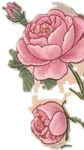
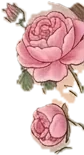
feat: hero v2 — bigger lighthouse; all moving layers re-cut, couple scaled to the new door

diff --git a/styles.css b/styles.css
@@ -165,7 +165,7 @@ body {
   width: max(100cqw, 100cqh * 768 / 1376);
   aspect-ratio: 768 / 1376;
   transform: translateX(-50%);
-  background: url("assets/hero/plate.webp?v=3") center / 100% 100% no-repeat;
+  background: url("assets/hero/plate.webp?v=4") center / 100% 100% no-repeat;
   container-type: inline-size;
 }
 .hl {
@@ -175,23 +175,23 @@ body {
   animation: sway var(--dur, 7s) ease-in-out var(--delay, 0s) infinite alternate;
 }
 /* left/top/width = x/768, y/1376, w/768 of each cut-out; origin = where it stands or grows from */
-.hl-flamingo1 { left: 1.172%;  top: 61.991%; width: 21.875%; transform-origin: 43% 100%; --a: -.7deg; --b: .6deg;  --dur: 7.5s; }
-.hl-flamingo2 { left: 13.802%; top: 68.605%; width: 20.182%; transform-origin: 43% 99%;  --a: .6deg;  --b: -.8deg; --dur: 8.5s; --delay: -3s; }
-.hl-pelican   { left: 23.177%; top: 76.017%; width: 17.057%; transform-origin: 41% 100%; animation-name: breathe; --dur: 4.2s; --delay: -1s; }
-.hl-rose-l    { left: 0;       top: 73.474%; width: 16.667%; transform-origin: 31% 100%; --a: -1.6deg; --b: 1.4deg; --dur: 6s;   --delay: -2s; }
-.hl-rose-r    { left: 81.901%; top: 74.855%; width: 14.063%; transform-origin: 66% 100%; --a: 1.5deg;  --b: -1.5deg; --dur: 6.8s; --delay: -4s; }
-.hl-rose-tr   { left: 89.063%; top: 58.648%; width: 10.938%; transform-origin: 90% 100%; --a: -1.8deg; --b: 1.2deg; --dur: 5.6s; --delay: -1s; }
+.hl-flamingo1 { left: 1.302%;  top: 61.846%; width: 21.745%; transform-origin: 43% 100%; --a: -.7deg; --b: .6deg;  --dur: 7.5s; }
+.hl-flamingo2 { left: 13.802%; top: 68.605%; width: 20.312%; transform-origin: 43% 99%;  --a: .6deg;  --b: -.8deg; --dur: 8.5s; --delay: -3s; }
+.hl-pelican   { left: 22.917%; top: 76.017%; width: 18.099%; transform-origin: 40% 100%; animation-name: breathe; --dur: 4.2s; --delay: -1s; }
+.hl-rose-l    { left: 0.000%;       top: 73.183%; width: 16.927%; transform-origin: 31% 100%; --a: -1.6deg; --b: 1.4deg; --dur: 6s;   --delay: -2s; }
+.hl-rose-r    { left: 81.901%; top: 74.927%; width: 14.453%; transform-origin: 64% 100%; --a: 1.5deg;  --b: -1.5deg; --dur: 6.8s; --delay: -4s; }
+.hl-rose-tr   { left: 89.062%; top: 58.503%; width: 10.938%; transform-origin: 90% 100%; --a: -1.8deg; --b: 1.2deg; --dur: 5.6s; --delay: -1s; }
 
-/* Mist over Vitosha (54,644 · 672×214): soft wisps drift across, masked to the mountain */
+/* Mist over Vitosha (54,646 · 672×208): soft wisps drift across, masked to the mountain */
 .mist {
   position: absolute;
   left: 7.031%;
-  top: 46.802%;
+  top: 46.948%;
   width: 87.5%;
-  aspect-ratio: 672 / 214;
+  aspect-ratio: 672 / 208;
   overflow: hidden;
-  -webkit-mask: url("assets/hero/mist-mask.webp?v=1") center / 100% 100% no-repeat;
-          mask: url("assets/hero/mist-mask.webp?v=1") center / 100% 100% no-repeat;
+  -webkit-mask: url("assets/hero/mist-mask.webp?v=2") center / 100% 100% no-repeat;
+          mask: url("assets/hero/mist-mask.webp?v=2") center / 100% 100% no-repeat;
   animation: mist-breathe 14s ease-in-out infinite alternate;
 }
 .mist::before {
@@ -212,15 +212,15 @@ body {
 @keyframes mist-drift   { from { transform: translateX(0); } to { transform: translateX(-50%); } }
 @keyframes mist-breathe { from { opacity: .55; } to { opacity: 1; } }
 
-/* Sunlight glint sliding over the golden domes (238,743 · 259×226) */
+/* Sunlight glint sliding over the golden domes (238,746 · 259×223) */
 .dome-glint {
   position: absolute;
   left: 30.990%;
-  top: 53.997%;
+  top: 54.215%;
   width: 33.724%;
-  aspect-ratio: 259 / 226;
-  -webkit-mask: url("assets/hero/dome-mask.webp?v=1") center / 100% 100% no-repeat;
-          mask: url("assets/hero/dome-mask.webp?v=1") center / 100% 100% no-repeat;
+  aspect-ratio: 259 / 223;
+  -webkit-mask: url("assets/hero/dome-mask.webp?v=2") center / 100% 100% no-repeat;
+          mask: url("assets/hero/dome-mask.webp?v=2") center / 100% 100% no-repeat;
   background: linear-gradient(105deg, rgba(255, 246, 205, 0) 44%, rgba(255, 246, 210, .22) 50%, rgba(255, 246, 205, 0) 56%) no-repeat;
   background-size: 300% 100%;
   mix-blend-mode: screen;
@@ -405,10 +405,10 @@ body {
   to   { transform: scaleX(1.03) skewY(.8deg); }
 }
 
-/* The couple: feet follow the pier deck from the right edge (775,984) to the lighthouse door (574,958) */
+/* The couple: feet follow the pier deck from the right edge (775,1000) to the lighthouse door (586,947) */
 .couple {
   position: absolute;
-  width: 2.3cqw;              /* a touch larger than true scale so they read on a phone */
+  width: 3.4cqw;              /* sized to the v2 lighthouse door (22×37) */
   aspect-ratio: 20 / 24;
   translate: -50% -100%;              /* anchor at the feet */
   overflow: visible;
@@ -430,12 +430,12 @@ body {
 .couple .c-dress { transform-box: fill-box; transform-origin: 50% 0; animation: swish 1.1s ease-in-out infinite alternate; }
 
 @keyframes stroll {
-  0%   { left: 100.91%; top: 71.51%; opacity: 0; scale: 1.1; }
+  0%   { left: 100.91%; top: 72.67%; opacity: 0; scale: 1.1; }   /* off the right edge (775,1000) */
   4%   { opacity: 1; }
-  66%  { left: 77.08%;  top: 70.0%;  scale: .9; }      /* end of the pier (592,963) */
-  74%  { left: 74.74%;  top: 69.62%; scale: .8; opacity: 1; }   /* at the door */
-  77%  { left: 74.74%;  top: 69.62%; scale: .76; opacity: 0; }
-  100% { left: 74.74%;  top: 69.62%; opacity: 0; }
+  64%  { left: 79.43%;  top: 70.35%; scale: .92; }     /* end of the pier, foot of the steps (610,968) */
+  73%  { left: 76.30%;  top: 68.82%; scale: .85; opacity: 1; }   /* at the door (586,947) */
+  77%  { left: 76.30%;  top: 68.82%; scale: .8; opacity: 0; }
+  100% { left: 76.30%;  top: 68.82%; opacity: 0; }
 }
 @keyframes step   { from { rotate: -14deg; } to { rotate: 14deg; } }
 @keyframes bounce { from { translate: 0 0; } to { translate: 0 -.5px; } }
@@ -444,13 +444,13 @@ body {
 /* the doorway lights up once they are inside, then slowly dims before the next stroll */
 .lh-door {
   position: absolute;
-  left: 74.3%;
-  top: 68.75%;
-  width: .9cqw;
-  height: 1.6cqw;
-  border-radius: .45cqw .45cqw 0 0;
+  left: 74.870%;             /* door 575,910 · 22×37 */
+  top: 66.134%;
+  width: 2.86cqw;
+  height: 4.8cqw;
+  border-radius: 1.43cqw 1.43cqw 0 0;
   background: radial-gradient(ellipse at 50% 70%, rgba(255, 228, 160, .95), rgba(255, 196, 110, .35) 60%, rgba(255, 190, 110, 0));
-  box-shadow: 0 0 1.2cqw .3cqw rgba(255, 210, 140, .55);
+  box-shadow: 0 0 2.4cqw .6cqw rgba(255, 210, 140, .55);
   opacity: 0;
   animation: doorlight 32s ease-in-out infinite;
 }
@@ -461,9 +461,9 @@ body {
   100%      { opacity: 0; }
 }
 
-/* Pines (0,657 · 170×174) and (608,658 · 160×168): rock from where the trunk leaves the frame, in uneven gusts */
-.hl-tree-l { left: 0;       top: 47.747%; width: 22.135%; transform-origin: 0 99%;    animation: breeze-l 10s ease-in-out infinite; }
-.hl-tree-r { left: 79.167%; top: 47.820%; width: 20.833%; transform-origin: 100% 99%; animation: breeze-r 11.5s ease-in-out -4s infinite; }
+/* Pines (0,659 · 169×172) and (613,657 · 155×169): rock from where the trunk leaves the frame, in uneven gusts */
+.hl-tree-l { left: 0.000%;       top: 47.892%; width: 22.005%; transform-origin: 0 99%;    animation: breeze-l 10s ease-in-out infinite; }
+.hl-tree-r { left: 79.818%; top: 47.747%; width: 20.182%; transform-origin: 100% 99%; animation: breeze-r 11.5s ease-in-out -4s infinite; }
 @keyframes breeze-l {
   0%, 100% { rotate: 0deg; }
   18% { rotate: .9deg; }
@@ -490,17 +490,17 @@ body {
 /* Lighthouse: a warm lamp that pulses, and a beam that sweeps round (right, towards us, left, away) */
 .lighthouse {
   position: absolute;
-  left: 73.698%;            /* lantern centre, 566 × 847 */
-  top: 61.555%;
+  left: 73.828%;            /* lantern centre, 567 × 686 */
+  top: 49.855%;
   width: 0;
   height: 0;
 }
 .lh-glow {
   position: absolute;
-  left: -4cqw;
-  top: -4cqw;
-  width: 8cqw;
-  height: 8cqw;
+  left: -7cqw;
+  top: -7cqw;
+  width: 14cqw;
+  height: 14cqw;
   border-radius: 50%;
   background: radial-gradient(circle, rgba(255, 246, 214, .95) 0 12%, rgba(255, 214, 140, .55) 28%, rgba(255, 190, 110, 0) 70%);
   mix-blend-mode: screen;
@@ -509,9 +509,9 @@ body {
 .lh-beam {
   position: absolute;
   left: 0;
-  top: -3.2cqw;
-  width: 46cqw;
-  height: 6.4cqw;
+  top: -5.5cqw;
+  width: 62cqw;
+  height: 11cqw;
   filter: blur(3px);          /* on the parent, so it softens the clipped cone's edges */
   transform-origin: 0 50%;
   opacity: 0;

diff --git a/index.html b/index.html
@@ -18,11 +18,11 @@
   <link rel="preconnect" href="https://fonts.googleapis.com">
   <link rel="preconnect" href="https://fonts.gstatic.com" crossorigin>
   <link href="https://fonts.googleapis.com/css2?family=Ballet:opsz@16..72&family=Cormorant+Garamond:ital,wght@0,300;0,400;0,500;1,400;1,500;1,600&display=swap" rel="stylesheet">
-  <link rel="stylesheet" href="styles.css?v=202610182232">
+  <link rel="stylesheet" href="styles.css?v=202610182246">
   <link rel="preload" as="image" href="assets/paper.webp?v=3">
   <link rel="preload" as="image" href="assets/seal.webp?v=2">
   <link rel="preload" as="image" href="assets/seal-lines.webp?v=2">
-  <link rel="preload" as="image" href="assets/hero/plate.webp?v=3">
+  <link rel="preload" as="image" href="assets/hero/plate.webp?v=4">
   <link rel="preconnect" href="https://www.google.com">
 </head>
 <body>
@@ -74,7 +74,7 @@
                 <path class="bell-body" d="M3.3 2.3 Q3.4 .9 5 .9 Q6.6 .9 6.7 2.3 L7.2 6.4 Q7.5 7.4 8.7 8 L1.3 8 Q2.5 7.4 2.8 6.4 Z"/>
                 <path class="bell-loop" d="M4.3 1 Q5 -.2 5.7 1"/>
               </svg>
-              <img class="belfry-front" src="assets/hero/belfry-front.webp?v=1" alt="">
+              <img class="belfry-front" src="assets/hero/belfry-front.webp?v=9" alt="">
             </span>
             <canvas class="sea" id="sea" width="768" height="262"></canvas>
             <span class="dolphin-pool">
@@ -84,18 +84,18 @@
               <i class="splash splash-out"></i><i class="splash splash-in"></i>
             </span>
             <div class="boat">
-              <img class="sail sail-l" src="assets/hero/sail-l.webp?v=1" alt="">
-              <img class="sail sail-r" src="assets/hero/sail-r.webp?v=1" alt="">
-              <img class="boat-hull" src="assets/hero/boat-hull.webp?v=1" alt="">
+              <img class="sail sail-l" src="assets/hero/sail-l.webp?v=9" alt="">
+              <img class="sail sail-r" src="assets/hero/sail-r.webp?v=9" alt="">
+              <img class="boat-hull" src="assets/hero/boat-hull.webp?v=9" alt="">
             </div>
-            <img class="hl hl-tree-l" src="assets/hero/tree-l.webp?v=1" alt="">
-            <img class="hl hl-tree-r" src="assets/hero/tree-r.webp?v=1" alt="">
-            <img class="hl hl-flamingo1" src="assets/hero/flamingo1.webp?v=1" alt="">
-            <img class="hl hl-flamingo2" src="assets/hero/flamingo2.webp?v=1" alt="">
-            <img class="hl hl-pelican" src="assets/hero/pelican.webp?v=1" alt="">
-            <img class="hl hl-rose-l" src="assets/hero/rose-l.webp?v=1" alt="">
-            <img class="hl hl-rose-r" src="assets/hero/rose-r.webp?v=1" alt="">
-            <img class="hl hl-rose-tr" src="assets/hero/rose-tr.webp?v=1" alt="">
+            <img class="hl hl-tree-l" src="assets/hero/tree-l.webp?v=9" alt="">
+            <img class="hl hl-tree-r" src="assets/hero/tree-r.webp?v=9" alt="">
+            <img class="hl hl-flamingo1" src="assets/hero/flamingo1.webp?v=9" alt="">
+            <img class="hl hl-flamingo2" src="assets/hero/flamingo2.webp?v=9" alt="">
+            <img class="hl hl-pelican" src="assets/hero/pelican.webp?v=9" alt="">
+            <img class="hl hl-rose-l" src="assets/hero/rose-l.webp?v=9" alt="">
+            <img class="hl hl-rose-r" src="assets/hero/rose-r.webp?v=9" alt="">
+            <img class="hl hl-rose-tr" src="assets/hero/rose-tr.webp?v=9" alt="">
             <!-- the two of us, walking hand in hand along the pier into the lighthouse -->
             <span class="lh-door"></span>
             <svg class="couple" viewBox="0 0 20 24" aria-hidden="true">
@@ -382,7 +382,7 @@
   </main>
 
 
-  <script src="config.js?v=202610182232"></script>
-  <script src="main.js?v=202610182232"></script>
+  <script src="config.js?v=202610182246"></script>
+  <script src="main.js?v=202610182246"></script>
 </body>
 </html>

diff --git a/main.js b/main.js
@@ -761,7 +761,7 @@
   const ctx = cvs.getContext("2d");
   const W = cvs.width, H = cvs.height;
   const water = new Image();     // the sea cut out of the plate; its alpha is the water mask
-  water.src = "assets/hero/water.webp?v=1";
+  water.src = "assets/hero/water.webp?v=2";
 
   let visible = true, last = 0, raf = 0;
   function frame(now) {
